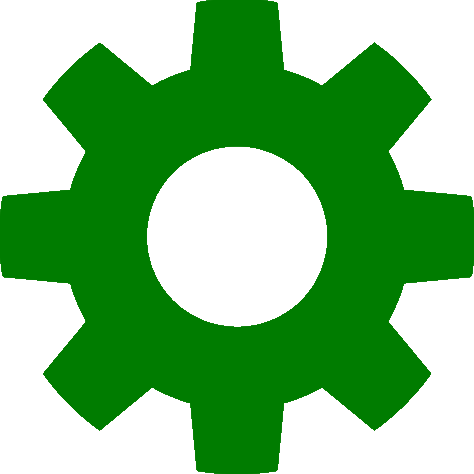
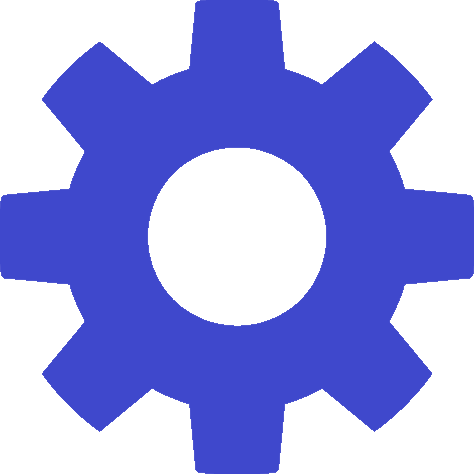
Design update
* general design and style changes.

diff --git a/client-app/src/components/HomeTopMenu/.module.css b/client-app/src/components/HomeTopMenu/.module.css
@@ -1,6 +1,6 @@
 .main {
-    background: rgb(234,255,17);
-    background: linear-gradient(90deg, rgba(234,255,17,1) 0%, rgba(206,252,27,1) 12%, rgba(102,188,25,1) 16%, rgba(25,185,40,1) 50%, rgba(102,188,25,1) 76%, rgba(234,255,17,1) 82%);
+    background: rgb(203,210,255);
+    background: linear-gradient(90deg, rgba(203,210,255,1) 12%, rgba(140,138,255,1) 14%, rgba(35,0,212,1) 16%, rgba(35,0,212,1) 75%, rgba(140,138,255,1) 78%, rgba(203,210,255,1) 80%);
     height: 10vh;
     -moz-user-select: none;
     -webkit-user-select: none;
@@ -15,22 +15,25 @@
     font-family:'Segoe UI', Tahoma, Geneva, Verdana, sans-serif;
     font-size: 5vh;
     font-weight: bold;
-    color: rgb(0, 124, 0);
+    color: rgb(0, 0, 196);
 }
 
 .img_button {
     cursor: pointer;
     position: absolute;
-    border: 0.4vh solid rgb(0, 124, 0);
+    border: 0.5vh solid blue;
     border-radius: 1vh;
     padding: 0.8vh;
     height: 5.5vh;
     width: 2.75vw;
     top: 1.2vh;
+    -moz-user-select: none;
+    -webkit-user-select: none;
+    user-select: none;
 }
 
 .img_button:hover {
-    border: 0.4vh solid greenyellow;
+    background-color: aquamarine;
 }
 
 .log_out {
@@ -44,6 +47,6 @@
 }
 
 .admin {
-    background-color: rgb(211, 229, 235);
+    background-color: rgb(122, 222, 255);
     right: 13.5vw;
 }

diff --git a/client-app/src/pages/AuthorizationPage.jsx b/client-app/src/pages/AuthorizationPage.jsx
@@ -12,12 +12,10 @@ const AuthorizationPage = () => {
 
     return (
         <div>
-            <EnterContainer backColor="rgba(0, 135, 67, 0.38)">
-                <CustomHeader text="Sign in to Homium" textColor={'#298c44'} textSize="7vh" isCenter={true}/>
-                <Space size="8vh"/>
+            <EnterContainer backColor="rgba(0, 45, 100, 0.38)">
+                <CustomHeader text="Sign in to Homium" textColor='rgb(22, 22, 165)' textSize="7vh" isCenter={true}/>
+                <Space size="4vh"/>
                 <LogInInput/>
-                <Space size="6vh"/>
-                <AccountOffer headerColor="rgb(11, 49, 0)" headerText="Don't have an account?" linkText="Sign up now" linkTo="/reg"/>
                 <Space size="2vh"/>
             </EnterContainer>
         </div>

diff --git a/client-app/src/pages/ObjectListPage.jsx b/client-app/src/pages/ObjectListPage.jsx
@@ -4,12 +4,12 @@ import ObjectSection from "../components/ObjectSection/ObjectSection";
 
 const ObjectListPage = () => {
     useEffect(() => {
-        document.body.style.backgroundColor = '#e8f0ff';
+        document.body.style.backgroundColor = 'whitesmoke';
     }, []);
 
     return (
         <div>
-            <CustomHeader text="Object list" textColor="#3e5c58" textSize="45px" isCenter={true}/>
+            <CustomHeader text="Object list" textColor="#0036a3" textSize="45px" isCenter={true}/>
             <ul className="object_list">
                 <ObjectSection name="Object 1" properties={[{id: 1, name: 'Power', val: 'on'}]}>
                     <ObjectSection name="Lamp" properties={[{id: 1, name: 'Power', val: 'on'}]}>

diff --git a/client-app/src/pages/HomePage.jsx b/client-app/src/pages/HomePage.jsx
@@ -41,7 +41,7 @@ const HomePage = () => {
                 <LogOutPanel onLogOutClick={authPageNavigate} onCancelClick={() => setModWinVisibility(false)}/>
             </ModalWindow>
             <HomeTopMenu onLogOutClick={() => setModWinVisibility(true)} onSettingsClick={settingsPageNavigate} onAdminClick={adminPageNavigate}/>
-            <CustomHeader text={curUsername ? `Welcome, ${curUsername}!` : null} textColor="#00a000" textSize="5vh" isCenter={true}/>
+            <CustomHeader text={curUsername ? `Welcome, ${curUsername}!` : null} textColor="#0036a3" textSize="5vh" isCenter={true}/>
             <Space size="3vh"/>
             <SceneContainer>
                 <SceneCell/>

diff --git a/client-app/src/components/AdminTopMenu/.module.css b/client-app/src/components/AdminTopMenu/.module.css
@@ -83,7 +83,7 @@
 .settings {
     cursor: pointer;
     position: absolute;
-    border: 0.4vh solid blue;
+    border: 0.5vh solid blue;
     border-radius: 1vh;
     padding: 0.8vh;
     height: 5.5vh;
@@ -97,13 +97,13 @@
 }
 
 .settings:hover {
-    border: 0.4vh solid rgb(92, 184, 255);
+    background-color: aquamarine;
 }
 
 .log_out {
     cursor: pointer;
     position: absolute;
-    border: 0.4vh solid blue;
+    border: 0.5vh solid blue;
     border-radius: 1vh;
     padding: 0.8vh;
     height: 5.5vh;
@@ -117,7 +117,7 @@
 }
 
 .log_out:hover {
-    border: 0.4vh solid rgb(92, 184, 255);
+    background-color: aquamarine;
 }
 
 .active_link {

diff --git a/client-app/src/pages/SettingsPage.jsx b/client-app/src/pages/SettingsPage.jsx
@@ -45,7 +45,7 @@ const SettingsPage = () => {
                 <LogOutPanel onLogOutClick={authPageNavigate} onCancelClick={() => setModWinVisibility(false)}/>
             </ModalWindow>
             <SettingsTopMenu onHomeClick={homePageNavigate} onAdminClick={adminPageNavigate} onLogOutClick={() => setModWinVisibility(true)}/>
-            <CustomHeader text="Settings" textSize="50px" isCenter={true} />
+            <CustomHeader text="Settings" textSize="50px" textColor="#0036a3" isCenter={true} />
             <Space size="10px" />
             <CustomHeader text="Night mode:" textSize="30px" />
             <Space size="10px" />

diff --git a/client-app/src/components/LogInInput/.module.css b/client-app/src/components/LogInInput/.module.css
@@ -1,6 +1,6 @@
 .user {
     width: 40vw;
-    border: 3px solid green;
+    border: 3px solid blue;
     outline: none;
     font-size: 5vh;
     background-color: whitesmoke;
@@ -11,7 +11,7 @@
 
 .password {
     width: 40vw;
-    border: 3px solid green;
+    border: 3px solid blue;
     outline: none;
     font-size: 5vh;
     background-color: whitesmoke;
@@ -40,7 +40,7 @@
     height: 8vh;
     border: none;
     border-radius: 50px;
-    background-color: green;
+    background-color: blue;
     color: white;
     font-family:'Segoe UI', Tahoma, Geneva, Verdana, sans-serif;
     font-weight: bold;

diff --git a/client-app/src/pages/SystemInfoPage.jsx b/client-app/src/pages/SystemInfoPage.jsx
@@ -3,12 +3,12 @@ import CustomHeader from "../components/CustomHeader/CustomHeader";
 
 const SystemInfoPage = () => {
     useEffect(() => {
-        document.body.style.backgroundColor = '#e8f0ff';
+        document.body.style.backgroundColor = 'whitesmoke';
     }, []);
 
     return (
         <div>
-            <CustomHeader text="System information" textColor="#2b9aad" textSize="45px" isCenter={true}/>
+            <CustomHeader text="System information" textColor="#0036a3" textSize="45px" isCenter={true}/>
         </div>
     );
 }

diff --git a/client-app/src/components/SceneCell/SceneCell.jsx b/client-app/src/components/SceneCell/SceneCell.jsx
@@ -13,7 +13,7 @@ const SceneCell = ({data}) => {
         if (data === undefined) {
             var a1 = 25;
             var b1 = sourceCanvas.height * 0.8;
-            sourceContext.fillStyle = 'orange';
+            sourceContext.fillStyle = 'rgb(8, 0, 161)';
             sourceContext.fillRect((sourceCanvas.width - a1) / 2, (sourceCanvas.height - b1) / 2, a1, b1);
             sourceContext.fillRect((sourceCanvas.width - b1) / 2, (sourceCanvas.height - a1) / 2, b1, a1);
         }

diff --git a/client-app/src/components/SettingsTopMenu/.module.css b/client-app/src/components/SettingsTopMenu/.module.css
@@ -2,8 +2,8 @@
     position: relative;
     height: 10vh;
     border-bottom: 0.5vh solid black;
-    background: rgb(140,140,140);
-    background: linear-gradient(90deg, rgba(140,140,140,1) 73%, rgba(191,191,191,1) 76%, rgba(255,255,255,1) 79%);
+    background: rgb(35,0,212);
+    background: linear-gradient(90deg, rgba(35,0,212,1) 75%, rgba(140,138,255,1) 78%, rgba(203,210,255,1) 80%);
 }
 
 .home, .admin, .log_out {

diff --git a/client-app/src/components/SceneCell/.module.css b/client-app/src/components/SceneCell/.module.css
@@ -1,10 +1,10 @@
 .main {
     cursor: pointer;
-    border: 1vh solid rgb(184, 147, 1);
+    border: 1vh solid rgb(8, 0, 161);
     border-radius: 3vh;
     width: 21.7vw;
     height: 21.7vh;
-    background-color: rgb(255, 255, 54);
+    background-color: rgb(54, 208, 255);
     margin: 2vh;
 }
 
